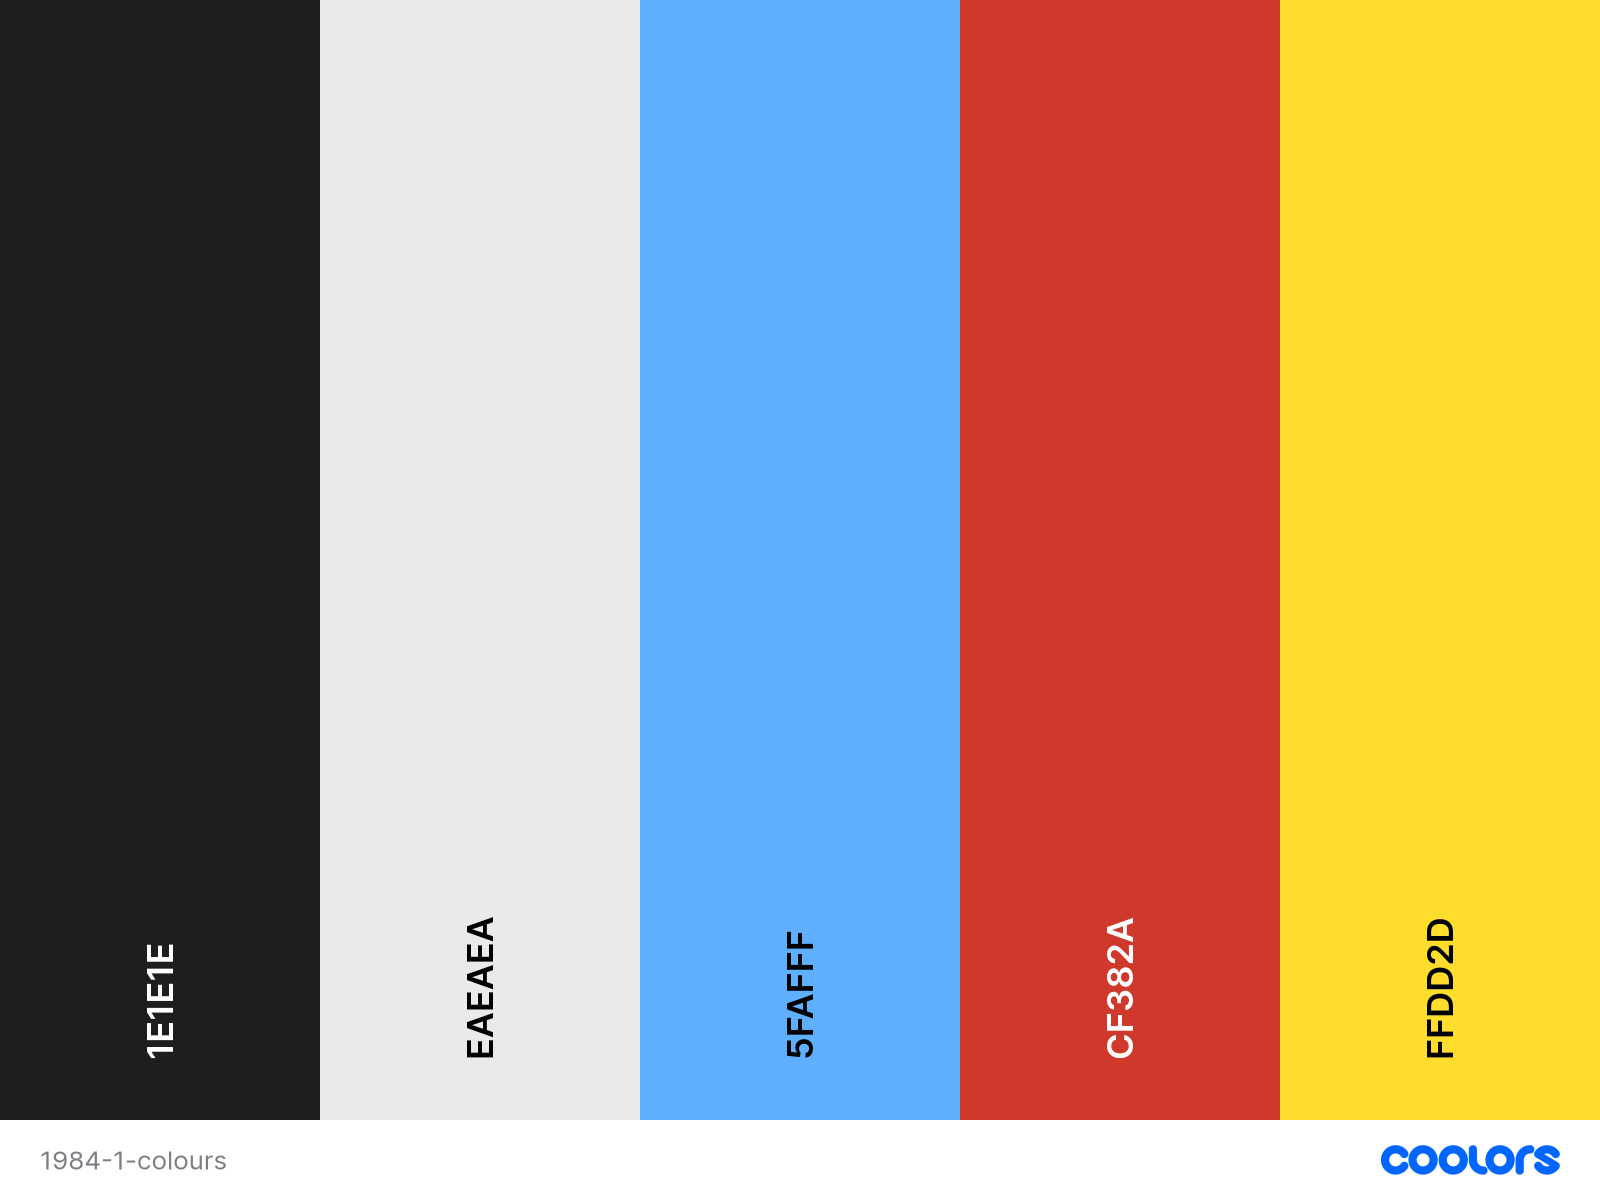
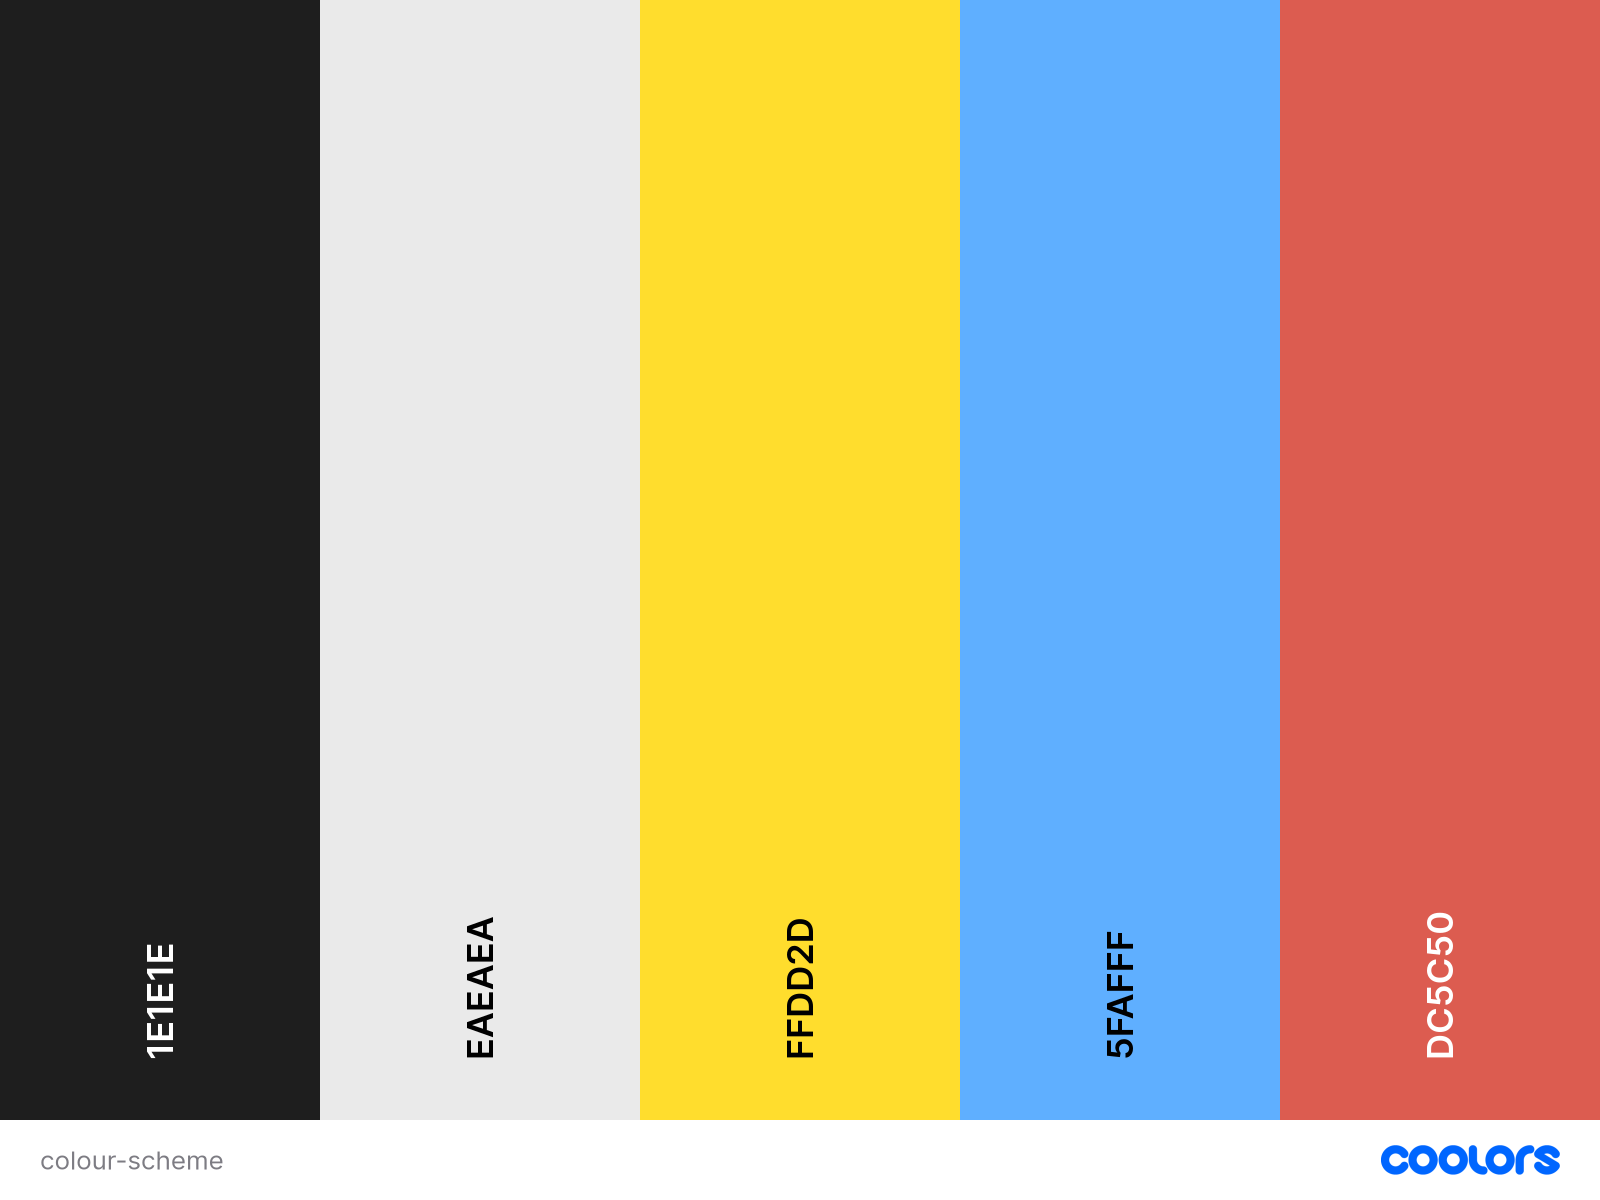
docs: add colour contrast testing to README

diff --git a/assets/css/style.css b/assets/css/style.css
@@ -9,7 +9,7 @@
     --cta-text: #000;
 
     --link-text: #5FAFFF;
-    --alerts: #cf382a;
+    --alerts: #DC5C50;
     --ctas-highlights: #FFDD2D;
 }
 

diff --git a/README.md b/README.md
@@ -134,7 +134,7 @@ The site is designed for users who want a thought-provoking yet entertaining way
   |`--primary-text`|`EAEAEA`|Default body text colour|
   |`--cta-text`|`000000`  |Call-to-action text colour; used in buttons and highlighted UI elements|
   |`--link-text`|`5FAFFF` |Standard link colour|
-  |`--alerts`|`CF382A` |Used for warning or error messages and helper text|
+  |`--alerts`|`DC5C50` |Used for warning or error messages and helper text|
   |`--ctas-highlight`|`FFDD2D`|Button background, highlight accents, and hover states for interactive elements|
 
   ### Responsiveness
@@ -414,7 +414,7 @@ This project was tested using [WAVE - Web Accessibility Evaluation Tool](https:/
 <details>
 <summary>WAVE Report</summary>
 
-![WAVE report showing 0 errors and 2 alert](docs/wave.png)
+![WAVE report showing 0 errors and 2 alerts](docs/wave.png)
 <details>
 
 **Alert Details**
@@ -422,6 +422,26 @@ This project was tested using [WAVE - Web Accessibility Evaluation Tool](https:/
 A logo and a navigation link both lead to the homepage. This is intentional for user clarity and branding.
 2. **Noscript Element**
 `<noscript>` tag present for when JavaSCript is disabled, including intentionally.
+
+Additionally, all website colour combinations were tested for WCAG 2.1 AA comliance using [WebAIM's Contrast Checker](https://webaim.org/resources/contrastchecker/). The following combinations were used throughout the site and all passed for normal text, large text, and non-text elements.
+
+|Combination|Foreground|Backgroud|Ratio|Result|
+|-----------|----------|---------|-----|------|
+|#FFFFFF on #1E1E1E|White|Dark Grey|16.67:1|Pass|
+|#EAEAEA on #1E1E1E|Pale Grey|Dark Grey|13.85:1|Pass|
+|#5FAFFF on #000000|Sky Blue|Black|9.06:1|Pass|
+|#EAEAEA on #000000|Pale Grey|Black|17.45:1|Pass|
+|#FFDD2d on #000000|Yellow|Black|15.63:1|
+
+<details>
+<summary>View Screenshots</summary>
+
+![#FFFFFF on #1E1E1E -16.67:1](docs/contrast-eaeaea-1e1e1e.png)
+![#EAEAEA on #1E1E1E – 13.85:1](docs/contrast-ffffff-1e1e1e.png)
+![#5FAFFF on #000000 – 9.06:1](docs/contrast-5fafff-000000.png)
+![#EAEAEA on #000000 – 17.45:1](docs/contrast-eaeaea-000000.png)
+![#FFDD2D on #000000 – 15.63:1](docs/contrast-ffdd2d-000000.png)
+<details>
 
 #### Lighthouse Testing
 Performance testing was carried out using Lighthouse in Chrome DevTools.
